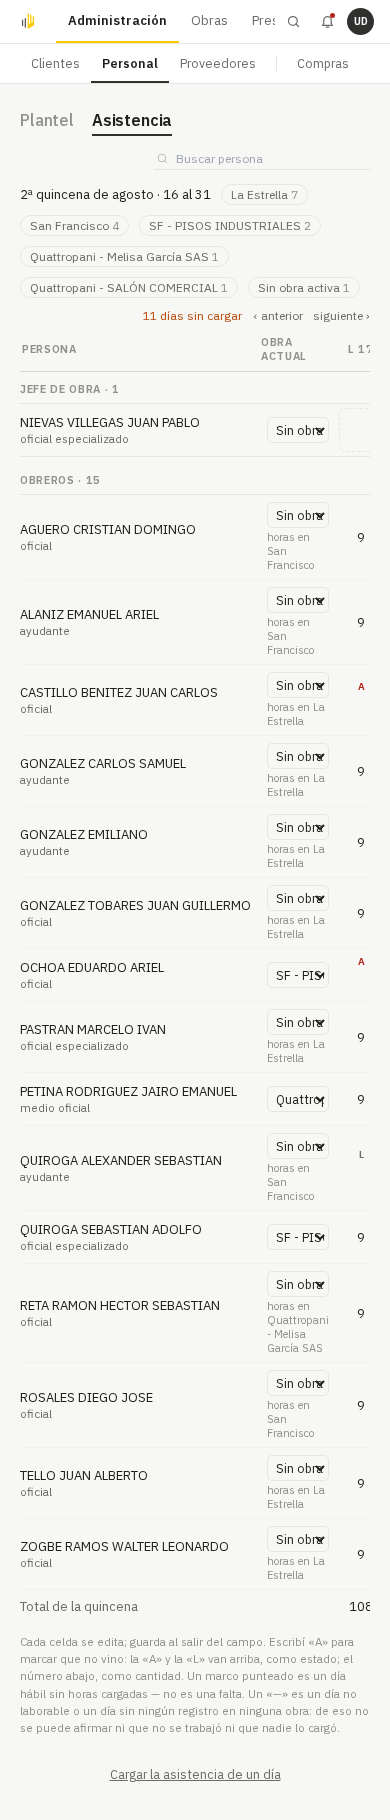
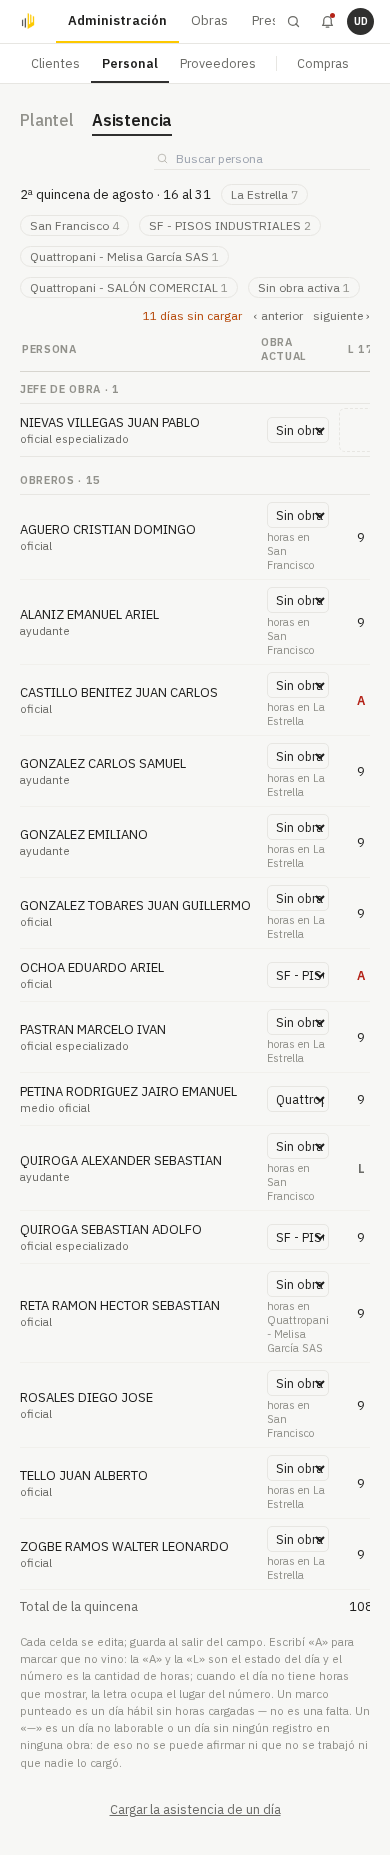
fix(asistencia): la tabla vuelve al ancho entero y la «A»/«L» sola se lee en la línea de los números
Dos correcciones sobre lo desplegado, pedidas por el dueño el 08/09/2026:

1. «NO SÉ POR QUÉ ACHICASTE EL MARGEN». Llevar la tabla al ancho de su contenido acercaba los días
   al nombre, pero dejaba ~550 px muertos a la derecha y el total de cada fila caía por la mitad de
   la pantalla en vez del borde. Vuelve `width: 100%` con las columnas de siempre (34% / 18%): el
   total y «corregir» otra vez contra el margen derecho. De ese defecto queda SÓLO el techo del
   nombre —una línea con ellipsis y el nombre entero en `title`—, que era el problema real.

2. «SE VE MAL LA L». Con la presencia como insignia de 10 px pegada al borde de arriba, las cinco
   «L» de una licencia y las cuatro «A» de TELLO quedaban por encima de la línea de los números de
   las filas vecinas. Regla nueva, en la función pura: cuando la capa de horas no muestra nada, el
   símbolo ES la celda y va centrado, en los mismos 12,5 px del número al que reemplaza; con número
   al lado sigue siendo insignia arriba en 10 px. `decidirCeldaDia` publica `arriba.centrado` y
   `CeldaDia` recibe `horasVacias` del consumidor, porque con un `<input>` como `children` no puede
   saber si el campo quedó vacío. El campo sigue existiendo y se escribe encima: el símbolo es
   `pointer-events-none`.

La nota al pie decía «la A y la L van arriba»: ahora dice la regla que se ve.

Tests: `centrado` en las seis combinaciones (`celdaDia.test.ts`). La captura mide que la tabla
[…]

diff --git a/echegaray-os/src/features/administracion/components/GrillaAsistenciaObra.tsx b/echegaray-os/src/features/administracion/components/GrillaAsistenciaObra.tsx
@@ -53,13 +53,14 @@ import { CeldaDia, type EntradaCeldaDia } from '@/shared/components/ds'
 // del grupo va en su propio rótulo, apagado y en 11,5px, para que no compita con el total de abajo.
 const ROJO = '#B42318'
 
-// ═══ LAS DOS COLUMNAS DE TEXTO TIENEN TECHO ═══
+// ═══ EL NOMBRE NO ENSANCHA LA COLUMNA, PERO LA TABLA SIGUE OCUPANDO TODO ═══
 //
-// Eran porcentajes (34% y 18%) sobre una tabla al 100%: cuanto más ancha la pantalla, más lejos
-// quedaban las horas del nombre al que pertenecen. En píxeles, la grilla empieza donde termina el
-// nombre y no donde termina la pantalla.
+// Se probó llevar la tabla al ancho de su contenido para acercar los días al nombre. El dueño lo
+// rechazó al verlo desplegado: *«están corridos los valores… no sé por qué achicaste el margen»* —
+// quedaban 550 px muertos a la derecha y el total de cada fila caía por la mitad de la pantalla en
+// vez del borde. La tabla vuelve al 100% con sus columnas de siempre; lo único que queda del
+// intento es el techo del NOMBRE, que era el defecto real: un nombre largo corría la quincena.
 const ANCHO_PERSONA = 320
-const ANCHO_OBRA = 240
 
 function textoDe(c: CeldaObra): string {
   if (c.estado === 'horas') return c.horas === null ? '' : hs(c.horas)
@@ -269,19 +270,13 @@ export function GrillaAsistenciaObra({
         que es justo lo que hay que mirar. Abajo de 1024 el panel va entero encima — no hay ancho
         para dos zonas y reservar 400px dejaría la tabla en 0. */}
     <div className={abierta ? 'lg:pr-[400px]' : undefined} style={{ overflowX: 'auto' }}>
-      {/* ═══ LA TABLA MIDE LO QUE MUESTRA (dueño, 08/09/2026: «está roto el diseño») ═══
-          Con `width: 100%` y una columna Persona del 34%, en 2000 px los días arrancaban en x=1058:
-          setecientos píxeles en blanco entre el nombre y sus horas, que es exactamente el recorrido
-          que hay que hacer para leer una fila. Ancho de contenido y pegada a la izquierda: las
-          columnas miden lo que necesitan y el sobrante queda del lado de afuera, donde no estorba.
-          El `overflow-x` del contenedor sigue cubriendo las pantallas angostas. */}
-      <table style={{ width: 'auto', borderCollapse: 'collapse', fontSize: '13px' }} data-testid="grilla-asistencia">
+      <table style={{ width: '100%', borderCollapse: 'collapse', fontSize: '13px' }} data-testid="grilla-asistencia">
         <thead>
           <tr style={{ borderBottom: `1px solid ${V.lineaFuerte}` }}>
-            <Rotulo ancho={`${ANCHO_PERSONA}px`}>Persona</Rotulo>
+            <Rotulo ancho="34%">Persona</Rotulo>
             {/* «ACTUAL» porque la obra de una persona cambia con el tiempo: acá se ve la de hoy; la de
                 cada día queda guardada en su marca y se lee en la cronología de la persona (ficha → Horas). */}
-            <Rotulo ancho={`${ANCHO_OBRA}px`}>Obra actual</Rotulo>
+            <Rotulo ancho="18%">Obra actual</Rotulo>
             {etiquetas.map((e, i) => (
               <Rotulo key={dias[i]} centro tenue={columnasTenues[i]} titulo={titulos[i]}>{e}</Rotulo>
             ))}
@@ -310,10 +305,7 @@ export function GrillaAsistenciaObra({
             return (
             <Fragment key={fila.clave}>
             <tr style={{ borderBottom: fallo ? undefined : `1px solid ${V.lineaFila}` }} data-testid="fila-quincena">
-              <td style={{
-                padding: '7px 8px 7px 0', verticalAlign: 'middle',
-                maxWidth: ANCHO_PERSONA, width: ANCHO_PERSONA,
-              }}>
+              <td style={{ padding: '7px 8px 7px 0', verticalAlign: 'middle' }}>
                 {/* EL NOMBRE ES LA PUERTA A SU CARPETA. El dueño: *"cada persona debe tener su
                     cronología de trabajo en su propia carpeta, no que se tiene que mostrar todo de
                     todos en la pantalla asistencia"*. Esta grilla es SÓLO la quincena elegida; el
@@ -343,7 +335,6 @@ export function GrillaAsistenciaObra({
               </td>
               <td data-testid="celda-obra" style={{
                 padding: '7px 8px', color: V.apagado, verticalAlign: 'middle',
-                maxWidth: ANCHO_OBRA, width: ANCHO_OBRA,
               }}>
                 {/* ═══ UN DESPLEGABLE, NO UN FORMULARIO (pedido del dueño, 08/09/2026) ═══
                     Elegir otra obra cambia la asignación vigente DESDE HOY: cierra la anterior y
@@ -412,6 +403,11 @@ export function GrillaAsistenciaObra({
                 const editable = celda.estado !== 'no_laborable' && celda.estado !== 'futuro'
                   && celda.estado !== 'licencia'
                   && !repartido && (fila.obraPorDefecto !== null || celda.tramos.length === 1)
+                // Lo que escribe una celda que NO se edita. Vacío en licencia, ausencia y futuro:
+                // el día ya está dicho arriba, y un «—» ahí afirmaría que no era laborable.
+                const textoFijo = celda.estado === 'horas' ? hs(celda.horas ?? 0)
+                  : celda.estado === 'licencia' || celda.estado === 'ausente' || celda.estado === 'futuro'
+                    ? '' : hueco.texto
                 return (
                   <td key={celda.fecha} style={{
                     padding: '4px 2px', textAlign: 'center', verticalAlign: 'middle',
@@ -425,6 +421,10 @@ export function GrillaAsistenciaObra({
                       entrada={entradaDe(celda)}
                       testid={editable ? 'celda-dia' : 'celda-fija'}
                       estado={editable ? undefined : celda.estado}
+                      // CON EL CAMPO VACÍO, LA «A» O LA «L» SON TODO LO QUE LA CELDA DICE, y van al
+                      // centro. El componente no puede verlo solo: lo que hay adentro del `<input>`
+                      // lo sabe esta grilla.
+                      horasVacias={editable ? valor === '' : textoFijo === ''}
                     >
                     {editable ? (
                       <input
@@ -456,7 +456,7 @@ export function GrillaAsistenciaObra({
                           color: celda.estado === 'horas' ? V.tinta : hueco.color,
                         }}
                       >
-                        {celda.estado === 'horas' ? hs(celda.horas ?? 0) : celda.estado === 'licencia' || celda.estado === 'ausente' || celda.estado === 'futuro' ? '' : hueco.texto}
+                        {textoFijo}
                       </span>
                     )}
                     </CeldaDia>

diff --git a/echegaray-os/src/shared/components/ds/CeldaDia.tsx b/echegaray-os/src/shared/components/ds/CeldaDia.tsx
@@ -38,9 +38,13 @@ const HORAS = {
 } as const
 
 export function CeldaDia({
-  entrada, children, testid, estado, className, conflicto, tituloConflicto,
+  entrada, children, testid, estado, className, conflicto, tituloConflicto, horasVacias,
 }: {
   entrada: EntradaCeldaDia
+  /** LA CAPA DE HORAS QUEDÓ VACÍA. Con `children` —el `<input>` de la grilla— el componente no
+   *  puede verlo: lo que hay adentro del campo lo sabe el consumidor. Sin dato manda lo que decidió
+   *  `decidirCeldaDia`. Es lo que decide si el símbolo va centrado o arriba. */
+  horasVacias?: boolean
   /** La presencia declarada y las horas del día se contradicen (ver `combinarCeldaDia`). Se pinta
    *  un marco `neg` —rojo sólo para problemas, y esto SÍ es un problema: una de las dos
    *  afirmaciones se liquida—. Silenciarlo sería elegir una sin decirlo. */
@@ -57,6 +61,11 @@ export function CeldaDia({
   className?: string
 }) {
   const capas = decidirCeldaDia(entrada)
+  // ═══ SIN NÚMERO, LA LETRA VA AL CENTRO (dueño, 08/09/2026: «se ve mal la L») ═══
+  // Cinco «L» seguidas en el borde superior de sus celdas se leen corridas contra los números de
+  // las filas vecinas. Cuando el símbolo es lo único que la celda muestra, ocupa el lugar del
+  // número y su mismo tamaño; el `<input>` sigue existiendo detrás y se puede escribir encima.
+  const centrado = capas.arriba.centrado && horasVacias !== false
   return (
     <span
       data-testid={testid ?? 'celda-dia'}
@@ -72,11 +81,15 @@ export function CeldaDia({
       } ${className ?? ''}`}
     >
       {/* Superpuesta y fuera del flujo: exista o no el símbolo, la capa de horas no se mueve ni un
-          píxel. Los 10 px la dejan arriba del número sin taparlo. */}
+          píxel. Los 10 px la dejan arriba del número sin taparlo; centrada, toma los 12,5 px del
+          número al que reemplaza para caer en la misma línea que sus vecinos. */}
       <span
         data-capa="presencia"
+        data-centrado={centrado ? 'si' : undefined}
         aria-label={capas.arriba.titulo || undefined}
-        className={`pointer-events-none absolute inset-x-0 top-[3px] flex h-2.5 items-center justify-center text-[10px] font-semibold leading-none ${PRESENCIA[capas.arriba.tono]}`}
+        className={`pointer-events-none absolute flex items-center justify-center font-semibold leading-none ${
+          centrado ? 'inset-0 text-[12.5px]' : 'inset-x-0 top-[3px] h-2.5 text-[10px]'
+        } ${PRESENCIA[capas.arriba.tono]}`}
       >
         {capas.arriba.simbolo}
       </span>

diff --git a/echegaray-os/tests/_ux-grilla-asistencia.spec.ts b/echegaray-os/tests/_ux-grilla-asistencia.spec.ts
@@ -68,9 +68,26 @@ for (const [ancho, alto] of [[1440, 900], [2000, 1250]] as const) {
       await expect(celda, 'hoy no lleva el marco punteado de «sin cargar»').not.toHaveAttribute('data-sin-cargar', 'si')
     }
 
-    // ── 4 · LOS DÍAS EMPIEZAN CERCA DEL NOMBRE ───────────────────────────────
-    const primerDia = await fila.getByTestId('celda-hora').first().boundingBox()
-    expect(primerDia!.x, 'la quincena no puede arrancar a mitad de pantalla').toBeLessThan(640)
+    // ── 4 · LA TABLA OCUPA EL ANCHO ENTERO ───────────────────────────────────
+    // El dueño rechazó la versión al ancho del contenido: *«no sé por qué achicaste el margen»*.
+    // Con 550 px muertos a la derecha, el total de cada fila caía por la mitad de la pantalla.
+    const tabla = await page.getByTestId('grilla-asistencia').boundingBox()
+    const disponible = await page.getByTestId('grilla-asistencia')
+      .evaluate((el) => (el.parentElement as HTMLElement).clientWidth)
+    expect(tabla!.width / disponible, 'la tabla ocupa el ancho que tiene').toBeGreaterThan(0.98)
+
+    // ── 5 · LA «A» Y LA «L» SOLAS VAN EN EL EJE DE LOS NÚMEROS ───────────────
+    // Arriba en el borde de su celda se leían corridas contra los números de las filas vecinas.
+    const centrada = page.locator('[data-capa="presencia"][data-centrado="si"]').first()
+    if (await centrada.count()) {
+      const suFila = centrada.locator('xpath=ancestor::tr[1]')
+      const vecino = suFila.getByTestId('celda-hora').first()
+      const eje = await vecino.count()
+        ? centro(await vecino.boundingBox())
+        : centro(await suFila.getByTestId('total-persona').boundingBox())
+      expect(Math.abs(centro(await centrada.boundingBox()) - eje),
+        'el símbolo solo se lee a la altura de los números de su fila').toBeLessThan(3)
+    }
 
     await page.screenshot({ path: `tests/qa-shots/asistencia-grilla-${ancho}.png`, fullPage: false })
   })

diff --git a/echegaray-os/src/shared/components/ds/celdaDia.ts b/echegaray-os/src/shared/components/ds/celdaDia.ts
@@ -50,6 +50,10 @@ export interface CapaPresencia {
   simbolo: '●' | 'A' | 'L' | ''
   tono: TonoPresencia
   titulo: string
+  /** SIN NÚMERO, EL SÍMBOLO ES EL DATO Y VA EN EL CENTRO (dueño, 08/09/2026: «se ve mal la L»).
+   *  Una insignia arriba tiene sentido cuando acompaña a un número; sola, en el borde superior, se
+   *  lee corrida respecto de los números de sus vecinos. Con número al lado vuelve arriba. */
+  centrado: boolean
 }
 
 export interface CapaHoras {
@@ -74,7 +78,7 @@ export function formatearHoras(n: number): string {
   return n.toLocaleString('es-AR', { minimumFractionDigits: 1, maximumFractionDigits: 1 })
 }
 
-function presenciaDe(e: EntradaCeldaDia): CapaPresencia {
+function presenciaDe(e: EntradaCeldaDia): Omit<CapaPresencia, 'centrado'> {
   const con = (base: string) => (e.motivo ? `${base}: ${e.motivo.toLowerCase()}` : base)
   switch (e.presencia) {
     case 'ficho': return { simbolo: '●', tono: 'pos', titulo: 'Fichó' }
@@ -117,7 +121,13 @@ function horasDe(e: EntradaCeldaDia): CapaHoras {
 export function decidirCeldaDia(e: EntradaCeldaDia): CapasCeldaDia {
   const arriba = presenciaDe(e)
   const abajo = horasDe(e)
-  return { arriba, abajo, titulo: [arriba.titulo, abajo.titulo].filter(Boolean).join(' · ') }
+  // La celda que no muestra ningún número no tiene de qué ser insignia: el símbolo ES la celda.
+  const centrado = arriba.simbolo !== '' && abajo.texto === ''
+  return {
+    arriba: { ...arriba, centrado },
+    abajo,
+    titulo: [arriba.titulo, abajo.titulo].filter(Boolean).join(' · '),
+  }
 }
 
 // ═══════════════════════════════════════════════════════════════════════════════════════════════

diff --git a/echegaray-os/src/shared/components/ds/celdaDia.test.ts b/echegaray-os/src/shared/components/ds/celdaDia.test.ts
@@ -115,6 +115,22 @@ test('el color semántico vive SÓLO en la capa de presencia: la de horas nunca 
   }
 })
 
+test('SIN NÚMERO, EL SÍMBOLO VA CENTRADO; con número, arriba', () => {
+  // EL DEFECTO QUE ATRAPA (dueño, 08/09/2026, sobre la grilla desplegada): *«se ve mal la L»*. Las
+  // cinco «L» de una licencia quedaban pegadas al borde de arriba de su celda mientras la fila de
+  // al lado tenía los números en el medio, y la letra se leía corrida. Cuando el símbolo es lo
+  // único que la celda muestra, ocupa el lugar del número.
+  assert.equal(decidirCeldaDia(habil({ presencia: 'licencia' })).arriba.centrado, true)
+  assert.equal(decidirCeldaDia(habil({ presencia: 'ausente' })).arriba.centrado, true)
+  assert.equal(decidirCeldaDia(habil({ presencia: 'ficho' })).arriba.centrado, true,
+    'presente sin horas: el ● también es lo único que hay')
+  assert.equal(decidirCeldaDia(habil({ presencia: 'ficho', horas: 8 })).arriba.centrado, false,
+    'con número al lado, la presencia vuelve a ser una insignia arriba')
+  assert.equal(decidirCeldaDia(habil({ presencia: 'licencia', dia: 'no_laborable' })).arriba.centrado, false,
+    'el «—» es un número a los efectos del lugar: la L no se le monta encima')
+  assert.equal(decidirCeldaDia(habil({})).arriba.centrado, false, 'sin símbolo no hay nada que centrar')
+})
+
 test('formatearHoras: una sola forma de escribir horas', () => {
   assert.equal(formatearHoras(8), '8,0')
   assert.equal(formatearHoras(7.25), '7,3')

diff --git a/echegaray-os/src/features/administracion/components/BloqueAsistenciaQuincena.tsx b/echegaray-os/src/features/administracion/components/BloqueAsistenciaQuincena.tsx
@@ -147,7 +147,8 @@ export async function BloqueAsistenciaQuincena({
 
       <p style={{ marginTop: 10, fontSize: '11.5px', color: V.tenue, lineHeight: 1.5 }} data-testid="pie-asistencia">
         Cada celda se edita; guarda al salir del campo. Escribí «A» para marcar que no vino: la «A»
-        y la «L» van arriba, como estado; el número abajo, como cantidad.
+        y la «L» son el estado del día y el número es la cantidad de horas; cuando el día no tiene
+        horas que mostrar, la letra ocupa el lugar del número.
         {' '}Un marco punteado es un día hábil sin horas cargadas — no es una falta. Un «—» es un
         día no laborable o un día sin ningún registro en ninguna obra: de eso no se puede afirmar ni
         que no se trabajó ni que nadie lo cargó.
